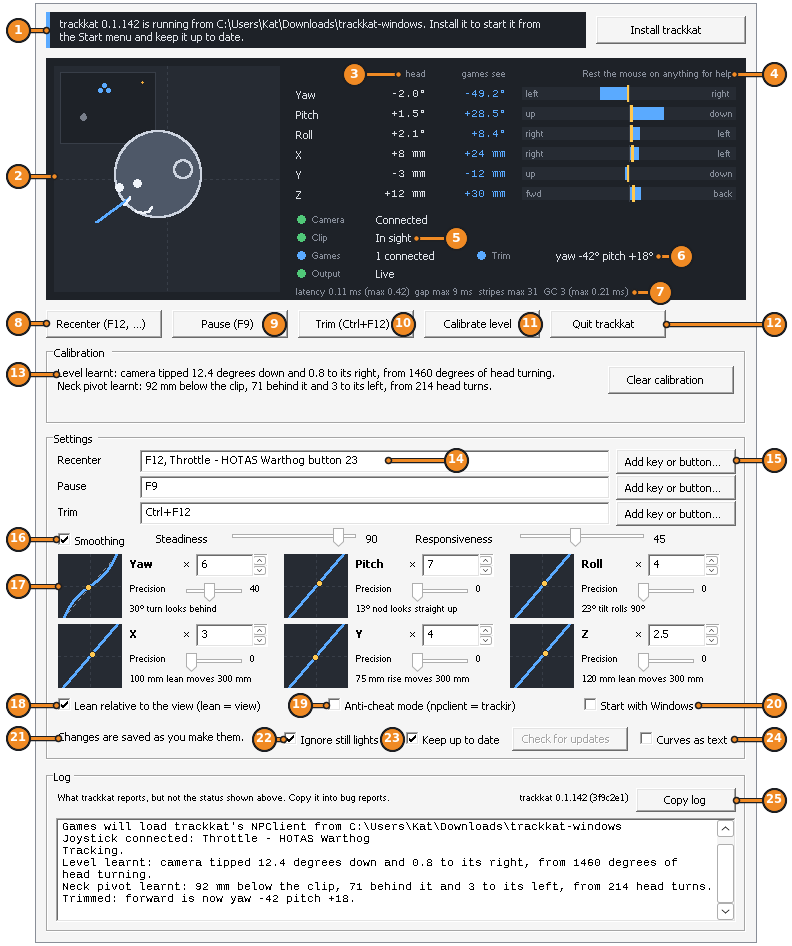
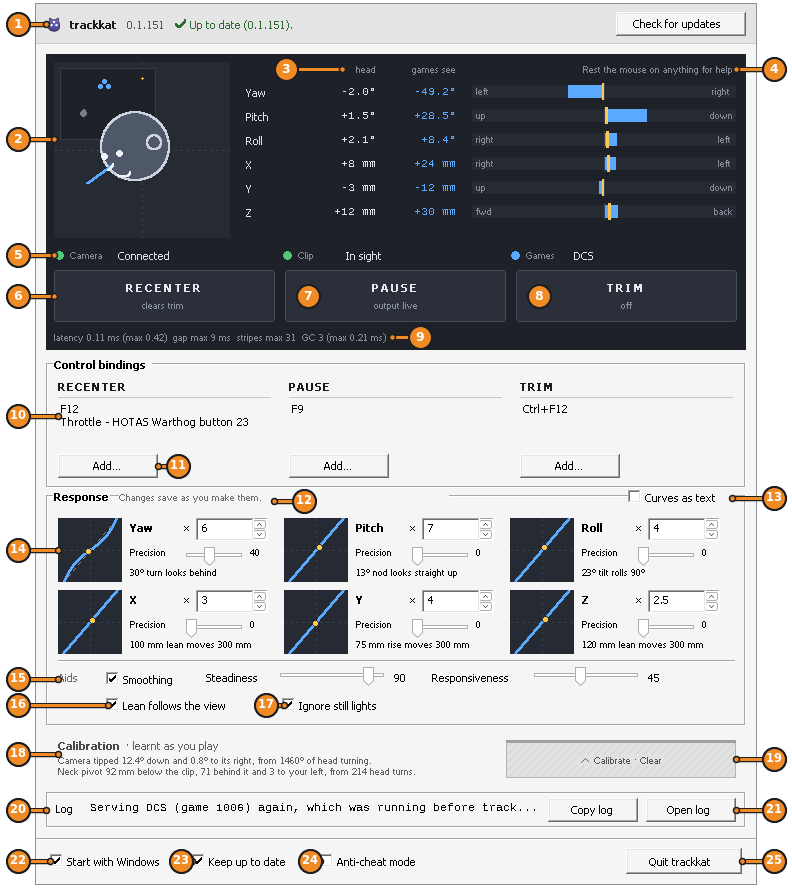
Describe the regrouped window in the README, its picture and the details

diff --git a/README.md b/README.md
@@ -50,31 +50,31 @@ tooltip saying what it does.
 
 ![trackkat's window, numbered](docs/window.png)
 
-1. **Install trackkat**, while it runs from where you unzipped it; **Restart to update** once a new version is ready.
+1. The version, and whether it is up to date; **Check for updates** looks now. Amber, with **Restart to update** once a new version is ready, or **Install trackkat** while it runs from where you unzipped it.
 2. Your head as games see it; in the corner, what the camera sees: the clip's reflectors blue, other bright things amber, still lights ignored grey.
 3. Each axis: your head, what games see after the curves, and a bar.
 4. Rest the mouse on anything for help.
-5. Camera, clip, games and output: green is good.
-6. The trim: where Trim made the new forward.
-7. Latency and other figures, for bug reports.
-8. **Recenter**: where you face now becomes straight ahead; clears trim.
-9. **Pause**: games see your head held still until you press it again.
-10. **Trim**: the view now, where it looks and where it has moved to, becomes forward, until you recenter.
-11. **Calibrate level**: after moving the camera, turn your head left and right for five seconds.
-12. **Quit trackkat**. Closing the window instead keeps trackkat running in the tray.
-13. What trackkat has learnt about your camera and neck; **Clear calibration** starts afresh.
-14. Keys and buttons for each action, separated by commas; here a HOTAS button too.
-15. **Add key or button…**: press a key, joystick button, or middle or side mouse button to add it.
-16. Smoothing: steadiness against jitter, responsiveness against lag.
-17. Response curves: a multiplier, a centre precision, and a plot with your head as a dot.
-18. Lean relative to where the game's view looks, or to the screen.
-19. Anti-cheat mode, for games such as Arma Reforger that refuse trackkat's NPClient.
-20. **Start with Windows**, in the tray: the way to use anti-cheat mode without starting trackkat by hand.
-21. Whether the last change was saved: settings are written to `trackkat.conf` as you change them, and apply at once.
-22. **Ignore still lights**: a lamp or a fire behind you doesn't stop trackkat finding the clip; see [still lights](docs/details.md#still-lights).
-23. **Keep up to date**: an installed trackkat fetches new versions in the background; **Check for updates** looks now.
-24. **Curves as text**, for curves of any shape.
-25. The log, and trackkat's version; **Copy log** for bug reports.
+5. Camera, clip and games (by name): green is good.
+6. **Recenter**: where you face now becomes straight ahead; clears trim.
+7. **Pause**: games see your head held still until you press it again. Lit amber while paused.
+8. **Trim**: the view now, where it looks and where it has moved to, becomes forward, until you recenter. Lit blue while trimmed, with where.
+9. Latency and other figures, for bug reports.
+10. Keys and buttons for each switch above, one to a line; here a HOTAS button too. Click a list to edit it.
+11. **Add…**: press a key, joystick button, or middle or side mouse button to add it.
+12. Whether the last change was saved: settings are written to `trackkat.conf` as you change them, and apply at once.
+13. **Curves as text**, for curves of any shape.
+14. Response curves: a multiplier, a centre precision, and a plot with your head as a dot.
+15. Smoothing: steadiness against jitter, responsiveness against lag.
+16. **Lean follows the view**, or the screen.
+17. **Ignore still lights**: a lamp or a fire behind you doesn't stop trackkat finding the clip; see [still lights](docs/details.md#still-lights).
+18. What trackkat has learnt about your camera and neck.
+19. A cover: lift it for **Calibrate now** (after moving the camera, turn your head left and right for five seconds) and **Clear calibration** (start afresh).
+20. The log's latest line; **Copy log** for bug reports.
+21. **Open log**: the whole log, and trackkat's version, in a window of its own.
+22. **Start with Windows**, in the tray: the way to use anti-cheat mode without starting trackkat by hand.
+23. **Keep up to date**: an installed trackkat fetches new versions in the background.
+24. **Anti-cheat mode**, for games such as Arma Reforger that refuse trackkat's NPClient.
+25. **Quit trackkat**. Closing the window instead keeps trackkat running in the tray.
 
 ## Keys
 

diff --git a/docs/details.md b/docs/details.md
@@ -5,7 +5,7 @@ The details behind the [README](../README.md).
 ## Installing and updating
 
 trackkat runs from wherever it was unzipped until you click **Install
-trackkat** in its window (or run `trackkat.exe --install`). That copies it to
+trackkat** at the top of its window (or run `trackkat.exe --install`). That copies it to
 `%LOCALAPPDATA%\Programs\trackkat\<version>`, for you alone and without
 admin, adds it to the Start menu and to Settings → Apps, points games at its
 NPClient there, and switches to the installed copy. If a copy as new is
@@ -17,15 +17,16 @@ Settings files beside `trackkat.exe`, where older versions kept them, are
 moved there once.
 
 Each build has a version, such as `0.1.142 (3f9c2e1)`: the build's number and
-its commit. The window's title and the start of the log show it. An
-installed trackkat looks for a newer build when it starts and every four
-hours, downloads it in the background, checks its SHA-256 and unpacks it
-beside the others. The window then offers **Restart to update**, as does the
-tray menu; otherwise the new version starts the next time trackkat does. If
-it can't reach GitHub, it says so on the console and tries again later; the
-log says so once, until a look works again. **Keep up to date**
-(`updates = off`) stops this. **Check for updates** looks at once, even with
-it off, and the log says what it found.
+its commit. The window's title, the log window and the start of the log
+show it. An installed trackkat looks for a newer build when it starts and
+every four hours, downloads it in the background, checks its SHA-256 and
+unpacks it beside the others. The strip across the top of the window then
+turns amber and offers **Restart to update**, as does the tray menu;
+otherwise the new version starts the next time trackkat does. If it can't
+reach GitHub, it says so on the console and tries again later; the log says
+so once, until a look works again. The strip says what the last look found.
+**Keep up to date** (`updates = off`) stops this. **Check for updates**, in
+the strip, looks at once, even with it off, and the log says what it found.
 
 A game keeps the NPClient it loaded until it quits, and that DLL starts
 `trackkat.exe` from its own folder, so an older version's folder is kept
@@ -63,9 +64,9 @@ window of the one already running.
 no console, until you quit it.
 
 **Started by a game**, trackkat shows only its tray icon, with no console.
-Once no game has been tracking for a minute, and its window isn't open, it
-quits by itself, so a game restarted within the minute finds it still
-running. It says when it starts counting down, and when it quits:
+Once no game has been tracking for a minute, and neither its window nor its
+log window is open, it quits by itself, so a game restarted within the
+minute finds it still running. It says when it starts counting down, and when it quits:
 
 ```
 No game or window is using trackkat; quitting in 60 s unless one starts.
@@ -107,6 +108,10 @@ toward the screen, and sit back, to bring the trimmed view ahead. While
 paused, trimming takes the held view as forward, and games stay held until
 you resume.
 
+In the window, the TRIM switch lights blue while a trim is in place, with
+its yaw and pitch, and PAUSE lights amber while paused. Each switch's keys
+and buttons are listed under it, one to a line, to edit or add to.
+
 ## Calibration
 
 trackkat learns two things from how you move your head, and keeps them in
@@ -134,9 +139,10 @@ Level learnt: camera tipped 14.2 degrees down and 1.3 to its right, from 900 deg
 Neck pivot learnt: 95 mm below the clip, 80 behind it and 60 to its right, from 40 head turns.
 ```
 
-To calibrate level at once, click **Calibrate level** in trackkat's window
-(or type `c` and Enter in its console), then turn your head left and right
-for five seconds. Delete `trackkat.calibration` to start afresh; it explains
+To calibrate level at once, lift the cover beside the calibration in
+trackkat's window and click **Calibrate now** (or type `c` and Enter in its
+console), then turn your head left and right for five seconds. **Clear
+calibration**, under the same cover, forgets what was learnt. Delete `trackkat.calibration` to start afresh; it explains
 its own format.
 
 Single-frame jumps no head could make are ignored.

diff --git a/BACKLOG.md b/BACKLOG.md
@@ -24,8 +24,8 @@ Roughly in order.
   head motion, consider negative inertia (IBM TrackPoint) to make stops crisp;
   if the fit worsens, the clip's post is swinging.
 - Per-game profiles. Not wanted for now: good defaults instead.
-- The window is about 930 px tall at 100%: on 1080p screens at 125% or more
-  the bottom is cut off. Split the settings into tabs or let them scroll.
+- The window (880 px tall at 100%) scrolls when the screen is shorter, but
+  tabbing to a control scrolled out of sight doesn't scroll it into view.
 - Two identical controllers (e.g. a pair of T.16000Ms for "HOSAS"): they are
   told apart by sorting device paths, so unplugging one renumbers the other.
   Identify each by its USB port, so a binding follows the stick in that
